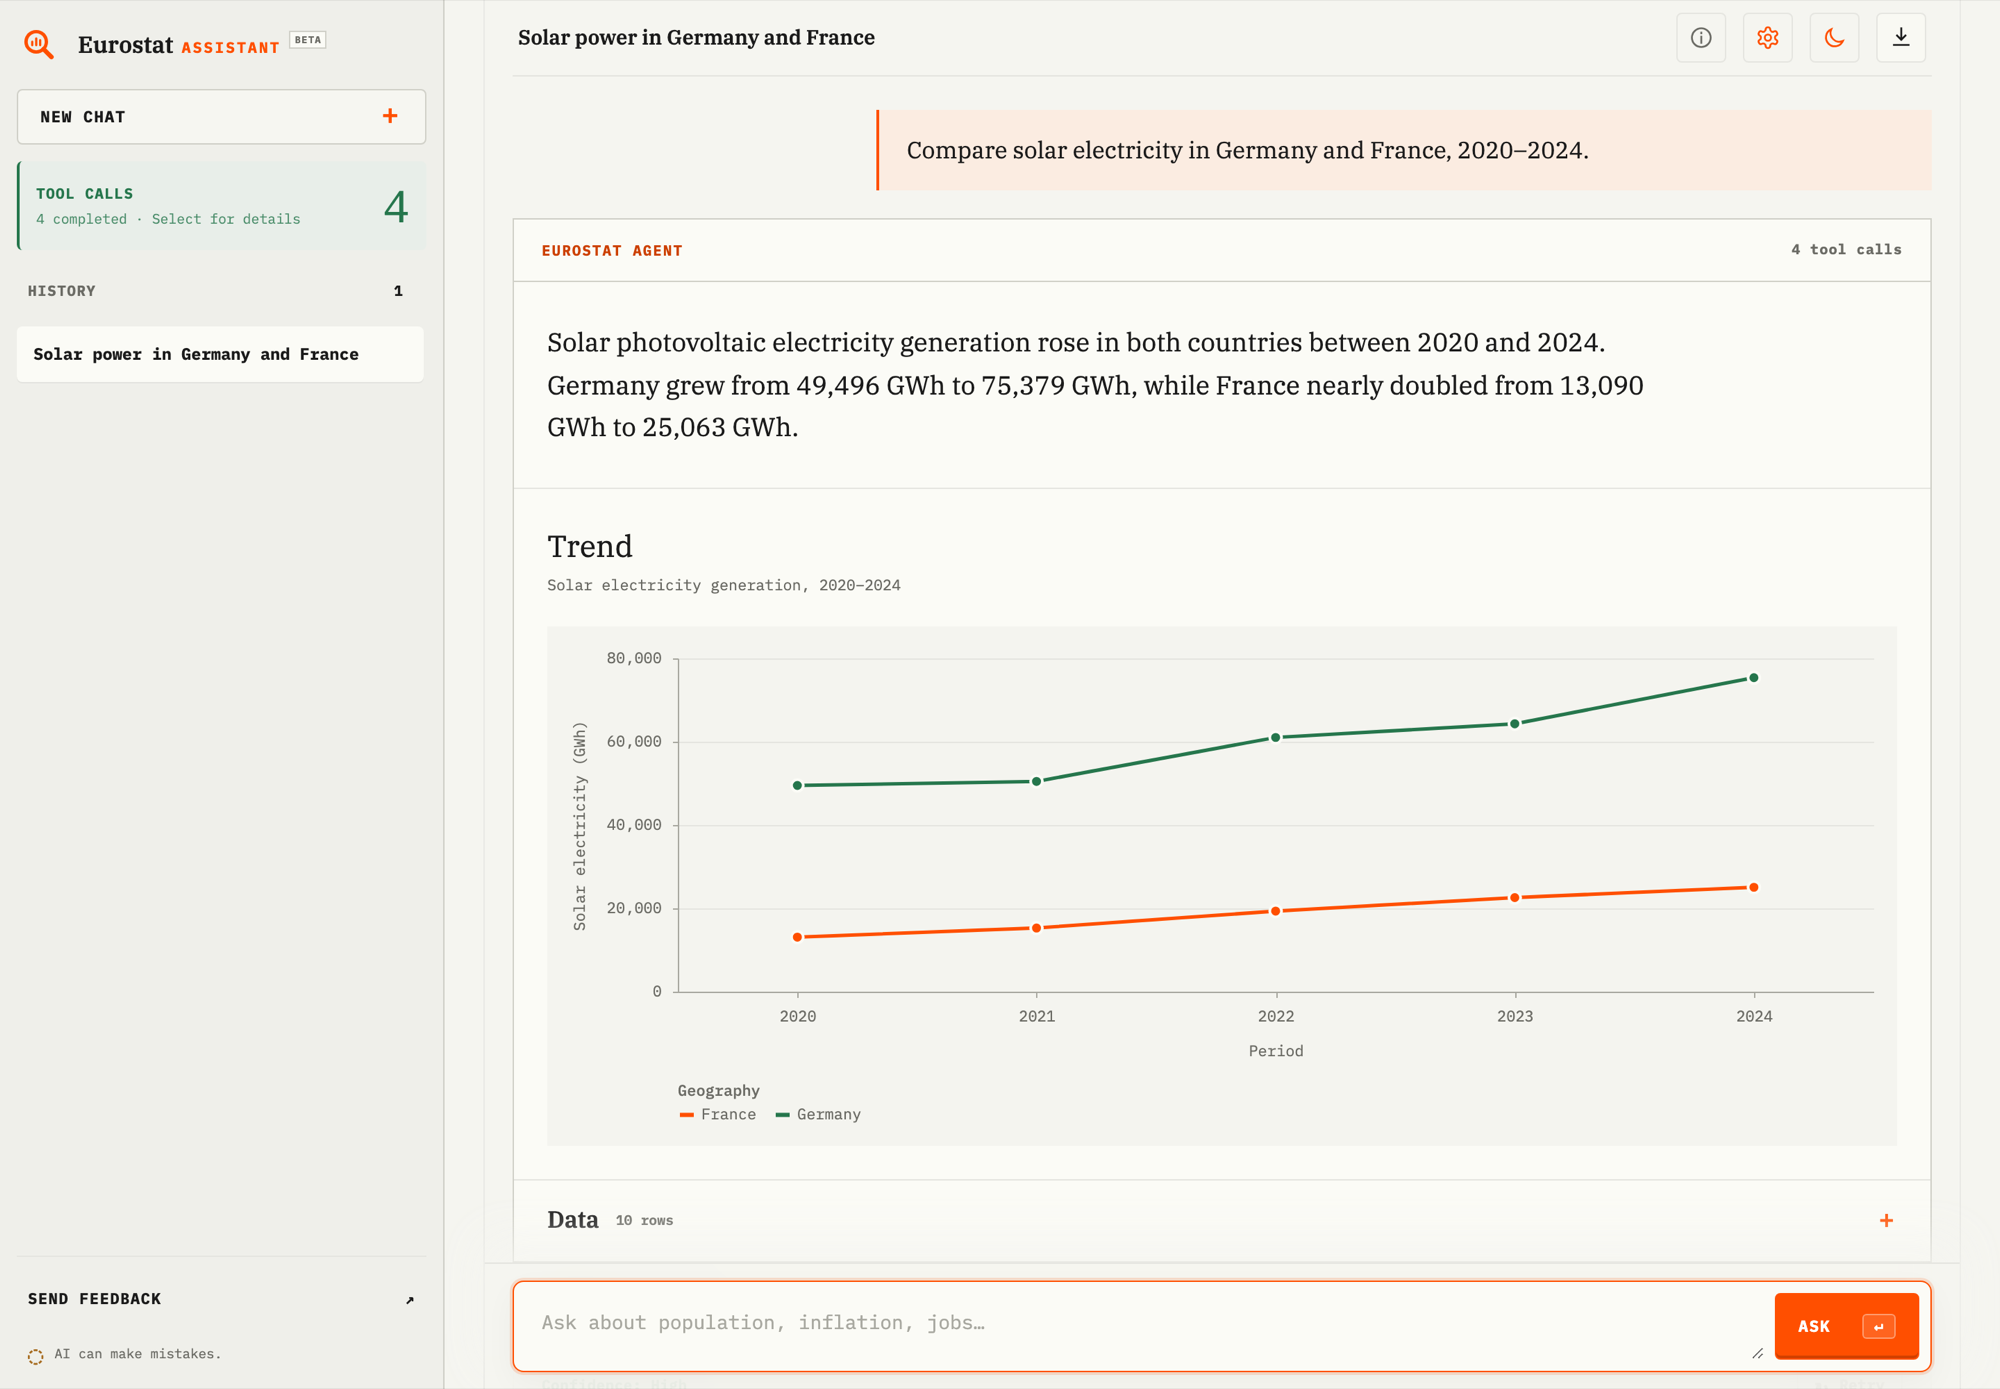
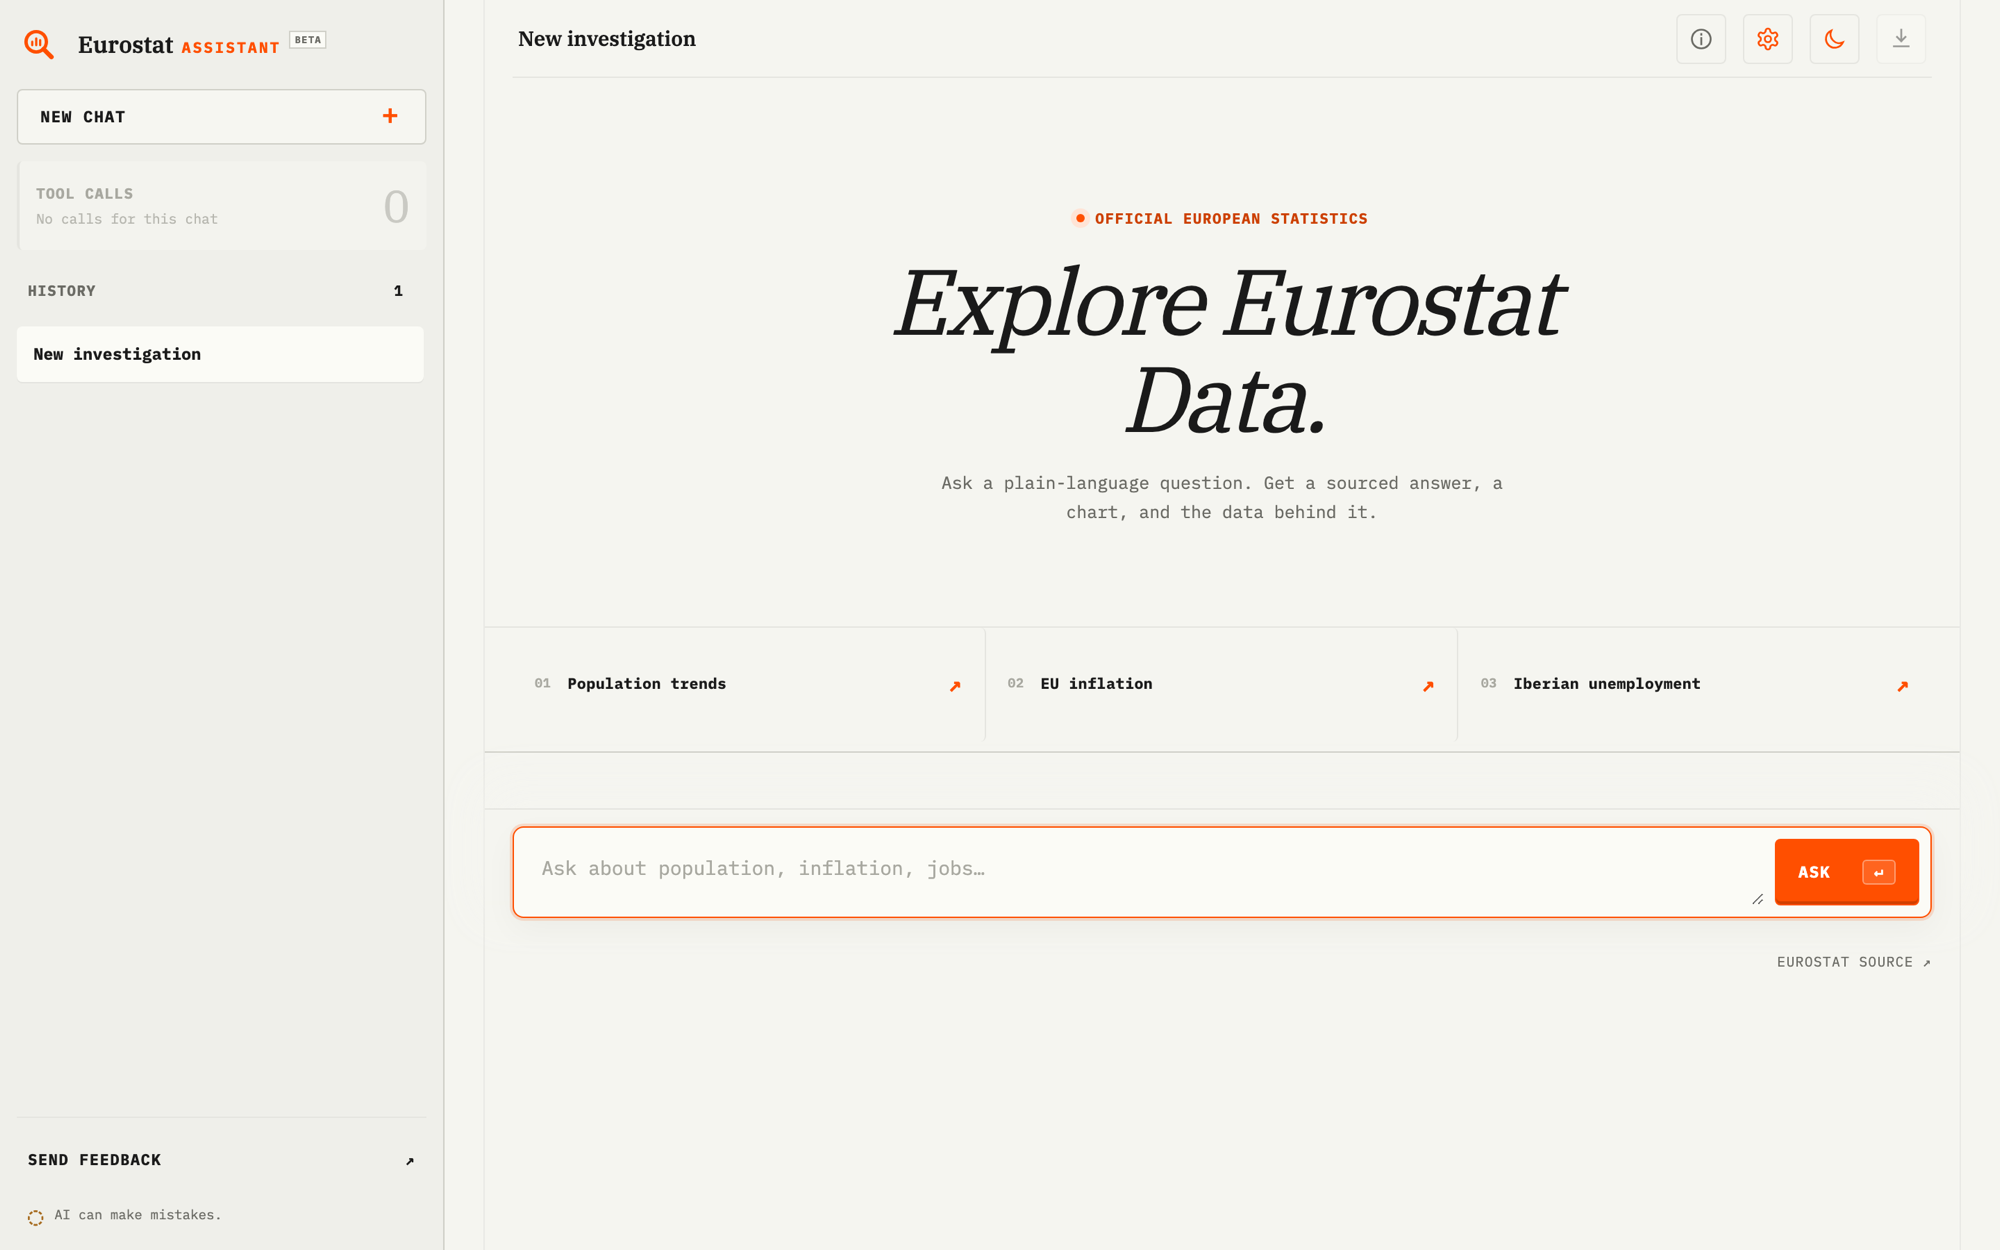
Use homepage for README screenshot

diff --git a/README.md b/README.md
@@ -12,7 +12,7 @@ The project is designed for focused questions that can be answered from a bounde
 Eurostat dataset. It is a reference implementation, not a replacement for Eurostat's full Data
 Browser or a general-purpose business intelligence platform.
 
-![Eurostat Assistant comparing solar electricity generation in Germany and France, 2020–2024, with a trend chart built from Eurostat dataset nrg_bal_peh](docs/images/app-screenshot.png)
+![Eurostat Assistant homepage with a question box and example investigations](docs/images/app-screenshot.png)
 
 ## Current scope
 
